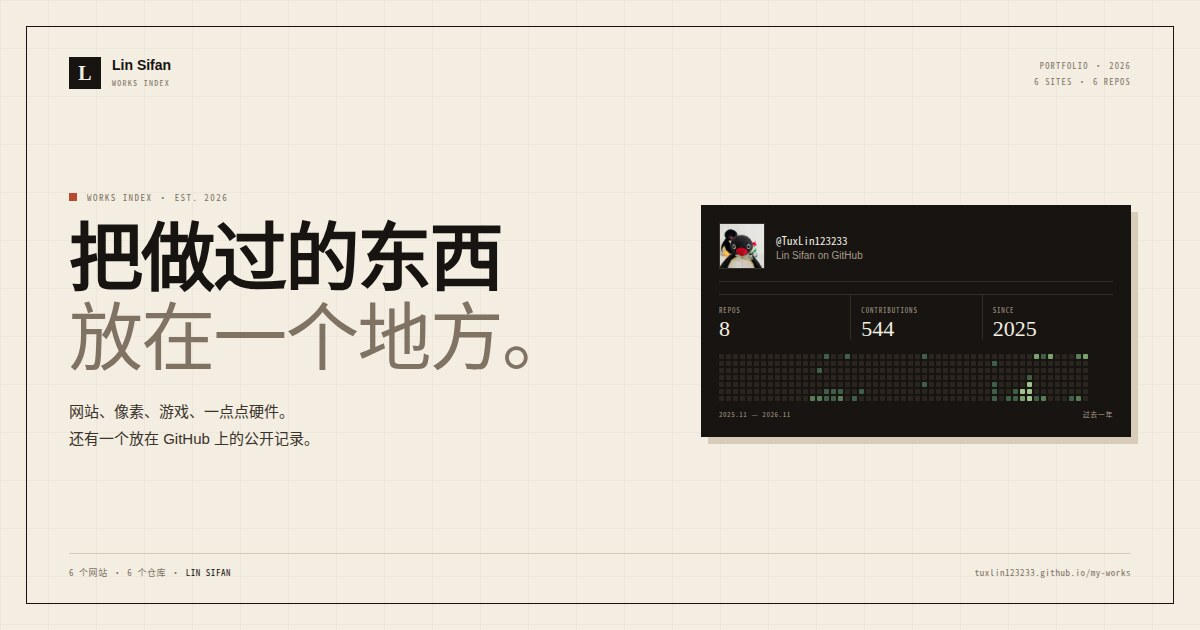
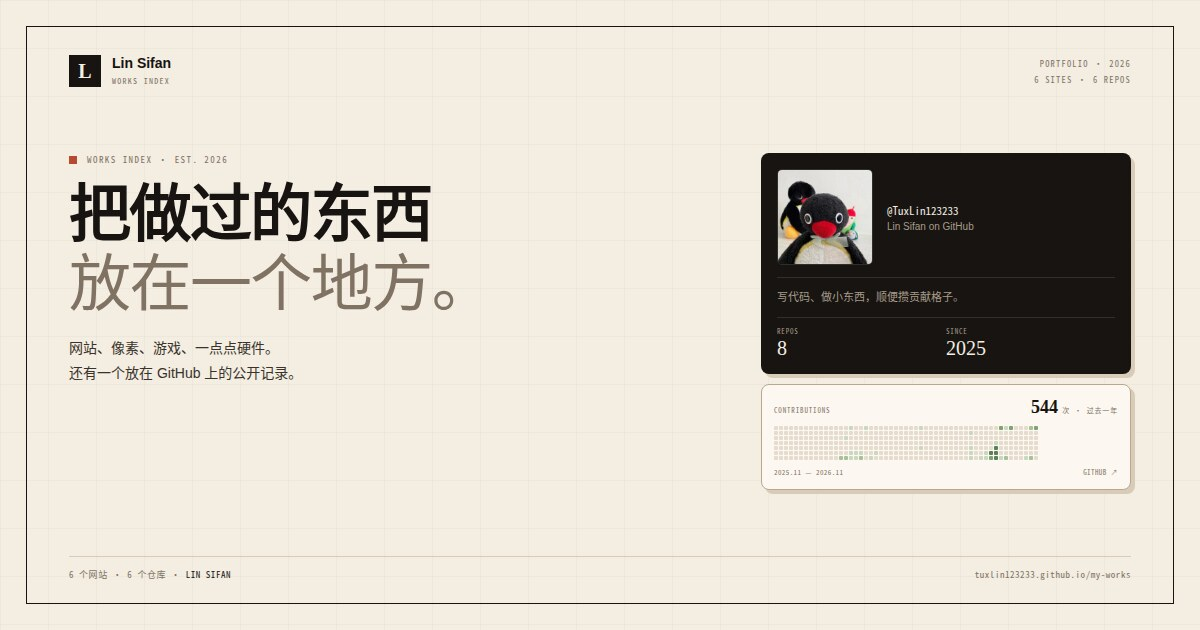
作品索引：头像与贡献拆成独立卡片
- 右侧拆成两张小圆角卡片：上方头像与 GitHub 资料，下方贡献格子
- 贡献卡改用浅色纸面，贡献格子重新配色并适配手机宽度
- 社区分享图重做：头像作为主视觉，贡献格子独立成第二张卡
- 更新 OG/Twitter meta 缓存版本与预览图
- 资源版本更新到 20261122-3

diff --git a/css/style.css b/css/style.css
@@ -113,45 +113,59 @@ img { max-width: 100%; display: block; }
 .btn--solid:hover { background: var(--accent); border-color: var(--accent); }
 .btn--line { background: transparent; }
 
-/* GitHub card */
+/* GitHub profile + contributions */
 
-.github-card {
+.side-stack { display: flex; flex-direction: column; gap: 10px; }
+
+.profile-card {
   background: var(--ink); color: var(--paper); border: 1px solid var(--ink);
-  padding: clamp(18px, 2.4vw, 26px);
-  box-shadow: 7px 7px 0 var(--line);
+  border-radius: 8px; padding: clamp(16px, 2.2vw, 20px);
+  box-shadow: 4px 4px 0 var(--line);
 }
-.github-card__top {
+.profile-card__top {
   display: flex; align-items: center; gap: 13px; text-decoration: none;
-  border-bottom: 1px solid var(--foot-line); padding-bottom: 16px;
+  border-bottom: 1px solid var(--foot-line); padding-bottom: 15px;
 }
-.github-card__avatar {
-  width: 62px; height: 62px; object-fit: cover; border: 1px solid var(--foot-line);
+.profile-card__avatar {
+  width: 62px; height: 62px; object-fit: cover;
+  border: 1px solid var(--foot-line); border-radius: 4px;
   filter: saturate(.92) contrast(1.02);
 }
-.github-card__who { display: flex; flex-direction: column; gap: 3px; min-width: 0; flex: 1; }
-.github-card__who strong { font-family: var(--font-mono); font-size: 12px; font-weight: 500; letter-spacing: .02em; }
-.github-card__who span { font-size: 11px; color: var(--foot-muted); }
-.github-card__arrow { font-family: var(--font-mono); font-size: 15px; color: var(--foot-muted); transition: color .2s, transform .2s; }
-.github-card__top:hover .github-card__arrow { color: var(--paper); transform: translate(2px, -2px); }
-.github-card__note { margin: 14px 0 0; font-size: 12px; line-height: 1.7; color: var(--foot-muted); }
-.github-stats { display: grid; grid-template-columns: repeat(3, minmax(0, 1fr)); gap: 0; margin: 16px 0 0; border-top: 1px solid var(--foot-line); }
-.github-stats div { padding: 12px 12px 0 0; }
-.github-stats div + div { border-left: 1px solid var(--foot-line); padding-left: 12px; }
-.github-stats dt { font-family: var(--font-mono); font-size: 7.5px; letter-spacing: .14em; color: var(--foot-muted); }
-.github-stats dd { margin: 3px 0 0; font-family: var(--font-display); font-size: 1.45rem; line-height: 1; }
-.contrib { margin-top: 18px; }
-.contrib__link { display: block; text-decoration: none; }
+.profile-card__who { display: flex; flex-direction: column; gap: 3px; min-width: 0; flex: 1; }
+.profile-card__who strong { font-family: var(--font-mono); font-size: 12px; font-weight: 500; letter-spacing: .02em; }
+.profile-card__who span { font-size: 11px; color: var(--foot-muted); }
+.profile-card__arrow { font-family: var(--font-mono); font-size: 15px; color: var(--foot-muted); transition: color .2s, transform .2s; }
+.profile-card__top:hover .profile-card__arrow { color: var(--paper); transform: translate(2px, -2px); }
+.profile-card__note { margin: 13px 0 0; font-size: 12px; line-height: 1.7; color: var(--foot-muted); }
+.profile-stats { display: grid; grid-template-columns: repeat(2, minmax(0, 1fr)); gap: 0; margin: 14px 0 0; border-top: 1px solid var(--foot-line); }
+.profile-stats div { padding: 11px 12px 0 0; }
+.profile-stats div + div { border-left: 1px solid var(--foot-line); padding-left: 12px; }
+.profile-stats dt { font-family: var(--font-mono); font-size: 7.5px; letter-spacing: .14em; color: var(--foot-muted); }
+.profile-stats dd { margin: 3px 0 0; font-family: var(--font-display); font-size: 1.45rem; line-height: 1; }
+
+.contrib-card {
+  background: var(--card); border: 1px solid var(--line-strong);
+  border-radius: 8px; padding: 14px;
+  box-shadow: 4px 4px 0 var(--line);
+}
+.contrib-card__head { display: flex; align-items: baseline; justify-content: space-between; gap: 12px; }
+.contrib-card__label { font-family: var(--font-mono); font-size: 7.5px; letter-spacing: .14em; color: var(--muted); }
+.contrib-card__total { font-family: var(--font-mono); font-size: 8px; color: var(--muted); }
+.contrib-card__total strong { font-family: var(--font-display); font-size: 1rem; font-weight: 600; color: var(--ink); margin-right: 2px; }
+.contrib { margin-top: 12px; }
+.contrib__link { display: block; text-decoration: none; border-radius: 3px; }
+.contrib__link:focus-visible { outline: 2px solid var(--ink); outline-offset: 2px; }
 .contrib__grid { display: flex; gap: 2px; overflow-x: auto; padding-bottom: 4px; scrollbar-width: thin; }
 .contrib__week { display: grid; grid-template-rows: repeat(7, 8px); gap: 2px; flex: 0 0 auto; }
-.contrib__cell { width: 8px; height: 8px; background: #2a251f; border-radius: 1px; }
-.contrib__cell.lvl-1 { background: #3f5f48; }
-.contrib__cell.lvl-2 { background: #597b58; }
-.contrib__cell.lvl-3 { background: #7ba06d; }
-.contrib__cell.lvl-4 { background: #a1c28c; }
+.contrib__cell { width: 8px; height: 8px; background: #e5dccd; border-radius: 1px; }
+.contrib__cell.lvl-1 { background: #c9d8bf; }
+.contrib__cell.lvl-2 { background: #a7c198; }
+.contrib__cell.lvl-3 { background: #80a374; }
+.contrib__cell.lvl-4 { background: #5b8058; }
 .contrib__cell.is-empty { background: transparent; }
-.contrib__foot { display: flex; justify-content: space-between; gap: 10px; margin-top: 8px; font-family: var(--font-mono); font-size: 7.5px; letter-spacing: .08em; color: var(--foot-muted); }
+.contrib__foot { display: flex; justify-content: space-between; gap: 10px; margin-top: 7px; font-family: var(--font-mono); font-size: 7.5px; letter-spacing: .08em; color: var(--muted); }
 
-/* ---------- Section ---------- */
+/* ---------- Section ---------- *//* ---------- Section ---------- */
 
 .section { padding-top: clamp(36px, 5vw, 54px); }
 .section__head {
@@ -255,7 +269,7 @@ img { max-width: 100%; display: block; }
 .hero__copy > *:nth-child(2) { animation-delay: .1s; }
 .hero__copy > *:nth-child(3) { animation-delay: .16s; }
 .hero__copy > *:nth-child(4) { animation-delay: .22s; }
-.github-card { animation: rise-in .85s .1s var(--ease) both; }
+.side-stack { animation: rise-in .85s .1s var(--ease) both; }
 @keyframes rise-in { from { opacity: 0; transform: translateY(16px); } to { opacity: 1; transform: none; } }
 
 /* ---------- Desktop ---------- */
@@ -280,7 +294,7 @@ img { max-width: 100%; display: block; }
   .contrib__cell { width: 6px; height: 6px; }
   .contrib__week { grid-template-rows: repeat(7, 6px); gap: 1px; }
   .contrib__grid { gap: 1px; }
-  .github-card { max-width: 460px; width: 100%; }
+  .side-stack { max-width: 460px; width: 100%; }
   .section__head { align-items: flex-start; flex-direction: column; gap: 8px; }
   .section__note { white-space: normal; }
   .about { grid-template-columns: 1fr; }
@@ -307,6 +321,6 @@ img { max-width: 100%; display: block; }
 @media (prefers-reduced-motion: reduce) {
   html { scroll-behavior: auto; }
   .js [data-reveal] { opacity: 1; transform: none; transition: none; }
-  .hero__copy > *, .github-card { animation: none; }
+  .hero__copy > *, .side-stack { animation: none; }
   *, *::before, *::after { animation-duration: .001ms !important; transition-duration: .001ms !important; }
 }

diff --git a/index.html b/index.html
@@ -12,13 +12,14 @@
   <meta property="og:description" content="网站、像素、游戏与小实验，以及 GitHub 上的贡献记录。">
   <meta property="og:type" content="website">
   <meta property="og:url" content="https://tuxlin123233.github.io/my-works/">
-  <meta property="og:image" content="https://tuxlin123233.github.io/my-works/assets/og-cover.jpg">
+  <meta property="og:image" content="https://tuxlin123233.github.io/my-works/assets/og-cover.jpg?v=20261122-3">
   <meta property="og:image:width" content="1200">
   <meta property="og:image:height" content="630">
   <meta name="twitter:card" content="summary_large_image">
+  <meta name="twitter:image" content="https://tuxlin123233.github.io/my-works/assets/og-cover.jpg?v=20261122-3">
   <title>Lin Sifan · 作品索引</title>
   <link rel="icon" href="favicon.svg" type="image/svg+xml">
-  <link rel="stylesheet" href="css/style.css?v=20261122-1">
+  <link rel="stylesheet" href="css/style.css?v=20261122-3">
 </head>
 <body>
   <header class="site-head">
@@ -48,30 +49,36 @@
         </div>
       </div>
 
-      <aside class="github-card" aria-label="GitHub 资料与贡献记录">
-        <a class="github-card__top" href="https://github.com/TuxLin123233" target="_blank" rel="noopener">
-          <img class="github-card__avatar" src="assets/avatar.jpg" alt="TuxLin123233 的 GitHub 头像" width="460" height="460">
-          <span class="github-card__who">
-            <strong>@TuxLin123233</strong>
-            <span>Lin Sifan on GitHub</span>
-          </span>
-          <span class="github-card__arrow" aria-hidden="true">↗</span>
-        </a>
-        <p class="github-card__note">写代码、做小东西，顺便攒贡献格子。</p>
-        <dl class="github-stats">
-          <div><dt>REPOS</dt><dd data-github="repos">8</dd></div>
-          <div><dt>CONTRIBUTIONS</dt><dd data-github="contributions">544</dd></div>
-          <div><dt>SINCE</dt><dd data-github="since">2025</dd></div>
-        </dl>
-        <div class="contrib">
+      <aside class="side-stack" aria-label="GitHub 资料与贡献记录">
+        <section class="profile-card">
+          <a class="profile-card__top" href="https://github.com/TuxLin123233" target="_blank" rel="noopener">
+            <img class="profile-card__avatar" src="assets/avatar.jpg" alt="TuxLin123233 的 GitHub 头像" width="460" height="460">
+            <span class="profile-card__who">
+              <strong>@TuxLin123233</strong>
+              <span>Lin Sifan on GitHub</span>
+            </span>
+            <span class="profile-card__arrow" aria-hidden="true">↗</span>
+          </a>
+          <p class="profile-card__note">写代码、做小东西，顺便攒贡献格子。</p>
+          <dl class="profile-stats">
+            <div><dt>REPOS</dt><dd data-github="repos">8</dd></div>
+            <div><dt>SINCE</dt><dd data-github="since">2025</dd></div>
+          </dl>
+        </section>
+
+        <section class="contrib-card">
+          <div class="contrib-card__head">
+            <span class="contrib-card__label">CONTRIBUTIONS</span>
+            <span class="contrib-card__total"><strong data-github="contributions">544</strong> 次 · 过去一年</span>
+          </div>
           <a class="contrib__link" href="https://github.com/TuxLin123233" target="_blank" rel="noopener" aria-label="在 GitHub 查看贡献记录">
             <div class="contrib__grid" id="contrib-grid" aria-label="过去一年的 GitHub 贡献格子"></div>
           </a>
           <div class="contrib__foot">
             <span id="contrib-range">2025.11 — 2026.11</span>
-            <span>过去一年</span>
+            <span>GitHub ↗</span>
           </div>
-        </div>
+        </section>
       </aside>
     </section>
 
@@ -130,7 +137,7 @@
     <svg viewBox="0 0 24 24" aria-hidden="true"><path d="m6 14 6-6 6 6"/></svg>
   </button>
 
-  <script src="js/data.js?v=20261122-1"></script>
-  <script src="js/app.js?v=20261122-1"></script>
+  <script src="js/data.js?v=20261122-3"></script>
+  <script src="js/app.js?v=20261122-3"></script>
 </body>
 </html>
